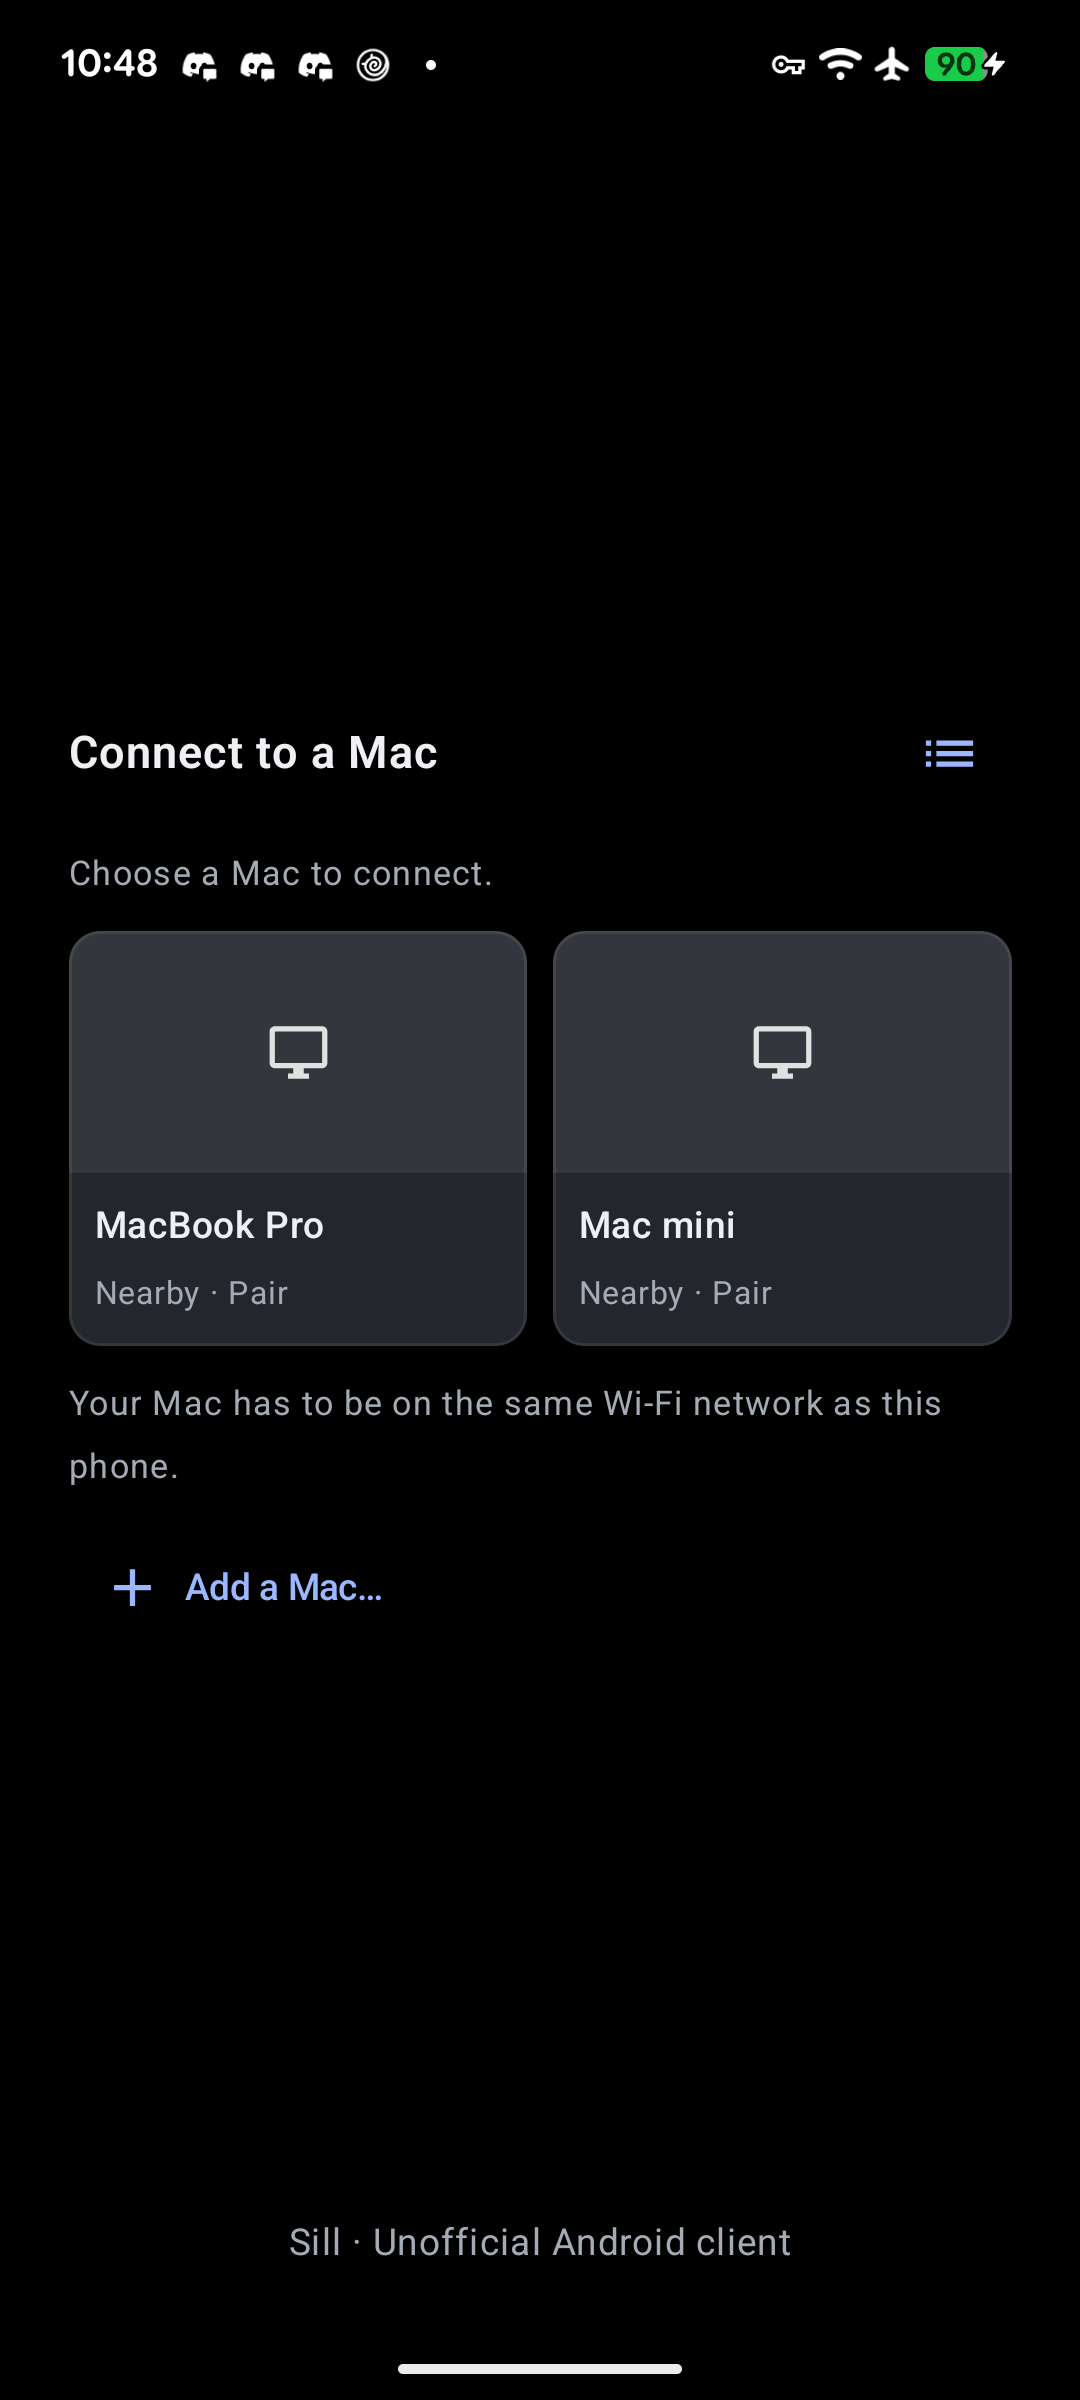
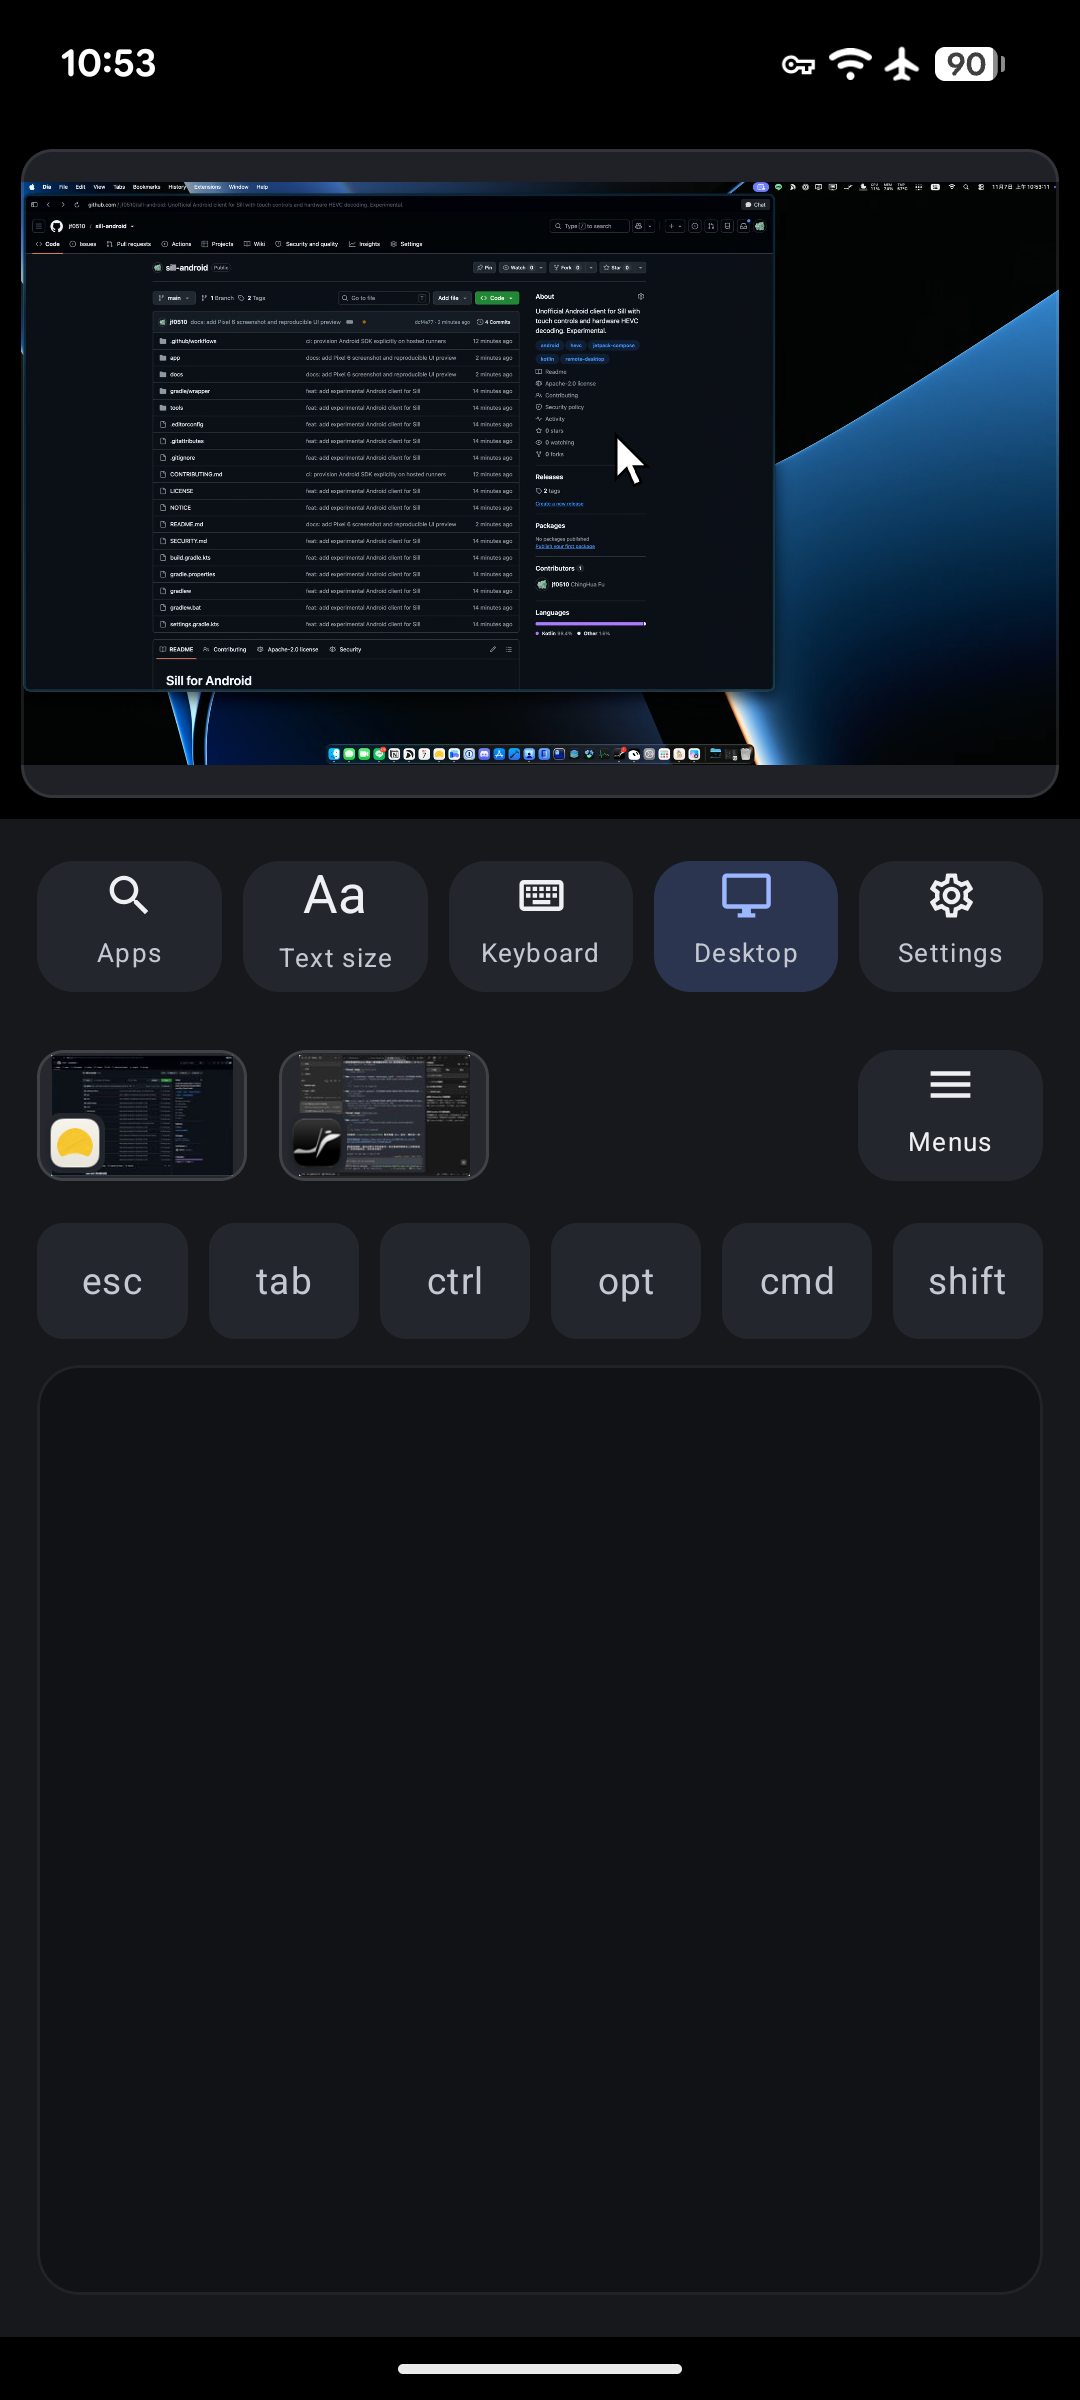
fix: match upstream compact iPad connection layout
Use the upstream 380 dp column and fixed preview height instead of stretching tablet cards. Replace the phone screenshot with the supplied live-session capture and refresh the physical tablet screenshot.

diff --git a/app/src/main/java/io/github/jf0510/sill/MainActivity.kt b/app/src/main/java/io/github/jf0510/sill/MainActivity.kt
@@ -137,13 +137,9 @@ private fun ConnectScreen(client: SillClient, s: ClientState) {
     Box(Modifier.fillMaxSize().imePadding()) {
         Column(
             Modifier.align(Alignment.Center)
-                .widthIn(
-                    max =
-                        if (tablet && tiles && !adding && s.pairing == null) 760.dp
-                        else compactColumn
-                )
+                .widthIn(max = compactColumn)
                 .fillMaxWidth()
-                .padding(horizontal = if (tablet) 16.dp else 10.dp)
+                .padding(horizontal = 10.dp)
                 .padding(top = 16.dp, bottom = 64.dp)
                 .verticalScroll(connectionScroll),
             verticalArrangement = Arrangement.spacedBy(10.dp),
@@ -331,11 +327,9 @@ private fun HostCard(
 ) {
     var menu by remember { mutableStateOf(false) }
     if (tiles) {
-        val tablet = LocalConfiguration.current.smallestScreenWidthDp >= 600
         Box {
             Column(
                 Modifier.fillMaxWidth()
-                    .then(if (tablet) Modifier.aspectRatio(1f) else Modifier)
                     .clip(RoundedCornerShape(12.dp))
                     .background(Palette.control)
                     .border(1.dp, Color.White.copy(alpha = .08f), RoundedCornerShape(12.dp))
@@ -347,7 +341,7 @@ private fun HostCard(
             ) {
                 Box(
                     Modifier.fillMaxWidth()
-                        .then(if (tablet) Modifier.weight(1f) else Modifier.height(92.dp))
+                        .height(92.dp)
                         .background(Palette.muted.copy(alpha = .12f)),
                     contentAlignment = Alignment.Center,
                 ) {

diff --git a/docs/architecture.md b/docs/architecture.md
@@ -29,6 +29,10 @@ identify this adaptation. The launcher icon is independent artwork created for t
 No source from the independently maintained Omar/Amine or Rahim Android clients
 was imported into this initial snapshot.
 
+The connection page follows upstream `ConnectLayout`: a centered column at most
+380 dp wide, with 10 dp grid spacing and a 92 dp preview band. Tablet cards do not
+stretch to fill the screen or enforce a square aspect ratio.
+
 The session hello advertises upstream compatibility version `0.6.0` for the
 Mac's device-version gate; its `build` field carries this Android client's own
 version. The two release numbering schemes are independent.
@@ -56,8 +60,6 @@ avoid repeatedly requesting keyframes from the host.
   and decoder capabilities vary across Android vendors.
 - The Android transport is LAN TLS/TCP. AWDL and Apple USB pairing are absent.
 - Unsupported Retina-sized pictures can trigger a shared host resolution change.
-- Tablet grids use a wider maximum column width than the upstream compact grid
-  and preserve square cards as their width increases.
 - Gesture details, keyboard composition, settings acknowledgement, menu merging,
   cursor shapes, and discovery address refresh still need parity work.
 - Source recovery uses fixed grace periods; it does not yet reproduce all

diff --git a/docs/testing.md b/docs/testing.md
@@ -75,15 +75,16 @@ adb shell am start -n io.github.jf0510.sill/.MainActivity --ez preview true
 
 The preview has no live video and does not replace device interoperability tests.
 
-To reproduce the README connection screenshots with synthetic host names:
+To reproduce the README tablet connection screenshot with synthetic host names:
 
 ```sh
 adb shell am force-stop io.github.jf0510.sill
 adb shell am start -n io.github.jf0510.sill/.MainActivity --ez previewHome true
 ```
 
-The README phone capture was taken on a Pixel 6 at its native 1080 × 2400
-resolution and 420 dpi. The tablet capture was taken on a Xiaomi Pad 7 in
-landscape at 3200 × 2136 and 440 dpi. `previewHome` overrides the displayed
-connection state only in debug builds; release builds ignore it. These are UI
-captures, not evidence of a connected video session or physical-device performance.
+The README phone image is a user-provided Pixel 6 capture of a live desktop
+session. The tablet capture was taken on a Xiaomi Pad 7 in landscape at
+3200 × 2136 and 440 dpi. `previewHome` overrides the displayed connection state
+only in debug builds; release builds ignore it. The connection preview is a UI
+capture, not evidence of a live video session. Neither screenshot establishes
+frame pacing or latency.

diff --git a/README.md b/README.md
@@ -20,14 +20,14 @@ performance. See [testing](docs/testing.md) for scope and limitations.
 
 ## Screenshots
 
-Connection screens captured on a Pixel 6 and Xiaomi Pad 7.
-Host names are synthetic demonstration data.
+Pixel 6 streaming a Mac desktop, and the Xiaomi Pad 7 connection screen.
+The tablet connection screen uses synthetic host names.
 
 <table>
   <tr><th>Pixel 6</th><th>Xiaomi Pad 7</th></tr>
   <tr>
-    <td><img src="docs/images/phone.png" alt="Pixel 6 connection screen with two Mac cards" width="240"></td>
-    <td><img src="docs/images/tablet.png" alt="Xiaomi Pad 7 landscape connection screen with square Mac cards" width="560"></td>
+    <td><img src="docs/images/phone.png" alt="Pixel 6 streaming a Mac desktop above touch controls and the portrait trackpad" width="240"></td>
+    <td><img src="docs/images/tablet.png" alt="Xiaomi Pad 7 landscape connection screen with compact Mac cards" width="560"></td>
   </tr>
 </table>
 

diff --git a/docs/releases/0.1.10.md b/docs/releases/0.1.10.md
@@ -1,0 +1,12 @@
+Preview update for the unofficial Android client for Sill.
+
+- Match the upstream iPad connection layout: a centered column up to 380 dp,
+  two compact cards when space permits, and a 92 dp preview area.
+- Replace the README phone image with a live Pixel 6 desktop-session capture.
+- Update the Xiaomi Pad 7 screenshot to show the corrected compact grid.
+- Include the four-digit pairing-code grouping introduced in 0.1.8.
+
+Download `sill-android-0.1.10.apk`. It updates earlier public releases in place
+using the same signing key. Android 11 or later and a compatible HEVC decoder
+are required. This remains an experimental, independently maintained client;
+frame pacing and iOS feature parity remain incomplete.
